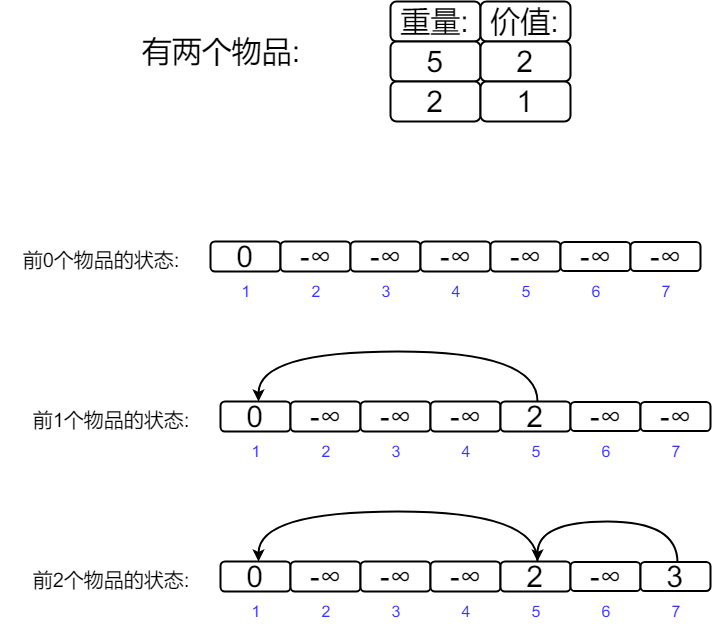
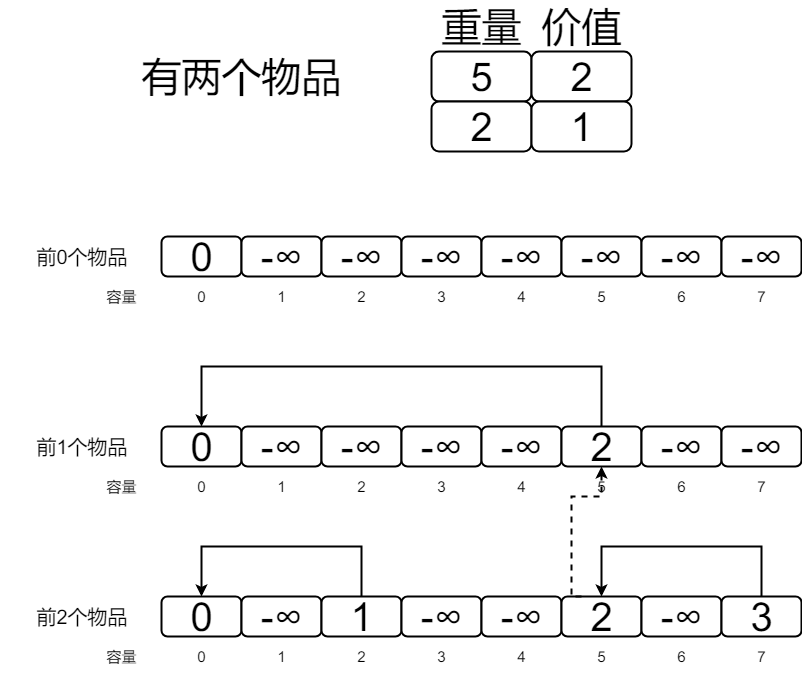
update 2018-08-01 17:37

diff --git a/动态规划/背包DP/01背包.md b/动态规划/背包DP/01背包.md
@@ -224,6 +224,146 @@ int main(){
 		}
 ```
 
+## 题目2:猫狗大战
+
+题目地址：[luogu P1489 猫狗大战](https://www.luogu.org/problemnew/show/P1489)
+
+**解析**
+
+如果一共有$$n$$个人,那么其中的一队的人数一定是$$n/2$$  
+设总血值为$$sum$$,如果知道了从$$n$$个人中选$$n/2$$人后所能形成的血值的可能值$$blood$$,那么另一队的血值为$$sum-blood$$,所以两队的血值的差值为$$\|sum-2\times blood\|$$  
+进而题目转为求:**n个人中选n/2的可能达到的血值**
+
+设$$f[i][k][j]$$表示前$$i$$人中选$$k$$个人后能不能达到血值$$j$$,显然有:
+
+```math
+f[i][k][j] =
+\left\{\begin{matrix}
+ f[i-1][k][j]& \\ 
+ or & \\
+ f[i-1][k-1][j-v[i]]& 
+\end{matrix}\right.
+```
+ - $$v[i]$$表示第$$i$$个人的血值
+ - $$f[i-1][k-1][j-v[i]]$$表示选第$$i$$个人
+ - **注意:**前$$i$$个人最多选$$i$$个人,所以$$k<=i$$
+ - **边界:**$$f[0][0][0]=1$$,表示前$$0$$个人,选$$0$$个人,可以达到血值$$0$$
+
+**我们可以画出如下的状态转移过程图:**
+
+数据:有$$3$$个人,血值分别是:$$1,2,3$$
+
+![1](./猫狗1.png)
+
+**三维写法的代码**
+```c
+
+#include <cstdio>
+#include <cstring>
+#include <cmath>
+using namespace std;
+
+
+int f[201][101][4010]  = {0};
+int n;
+int a[201];
+int sum = 0;
+
+void swap(int &a,int &b){
+    int t= a;
+    a = b;
+    b =t;
+}
+
+
+int main(){
+    scanf("%d",&n);
+    int i,j,k;
+    for(i=1;i<=n;i++){
+        scanf("%d",&a[i]);
+        sum += a[i];
+    }
+
+
+    f[0][0][0] = 1;
+    for(i=1;i<=n;i++) //枚举前i个人
+        for(k=1;k<=i && k <= n/2;k++ )
+            for(j=0;j<=sum;j++)
+                if( f[i-1][k][j] == 1 || f[i-1][k-1][j-a[i]] == 1)
+                    f[i][k][j] = 1;
+
+    int ans = 999999999;
+    int t1,t2;
+    for(i=0;i<=sum;i++)
+        if( f[n][n/2][i] == 1){
+            if( ans > abs( sum-2*i)){
+                ans = abs( sum-2*i);
+                t1 = i;
+                t2 =sum-i;
+            }
+        }
+    if( t1 > t2)
+        swap(t1,t2);
+    printf("%d %d\n",t1,t2);
+    return 0;
+}
+```
+
+**注意**:根据题意,你应该开的数组大小为$$f[201][101][8001]$$,占用的内存为$$201*101*8001*4/1024/1024=609mb$$,会超内存,这个时间我们应该把三维压成二维的
+
+我们设$$f[k][j]$$,省掉$$i$$,根据上面的三给的转移,你会发现第$$k$$行的数据,一定需要第$$k-1$$行的数据.**所以我们应该先从大到小枚举$$k$$,然后枚举$$j$$,一行一行的更新**
+
+
+**二维写法的代码**
+
+```c
+#include <cstdio>
+#include <cstring>
+#include <cmath>
+using namespace std;
+
+
+int f[201][8001] = {0};
+int sum=0,a[201]; //存血值
+int n;
+
+void dp(){
+}
+
+int main(){
+    scanf("%d",&n);
+    int i,j,k,half=n>>1;
+    for (i=1;i<=n;i++){
+        scanf("%d",&a[i]);
+        sum += a[i];
+    }
+
+    //dp
+    f[0][0] = 1; //边界
+    for(i=1;i<=n;i++) //枚举前i个人
+        for(k=half;k>=1 ;k--)//枚举选k个人,倒过来
+            for(j=a[i];j<=sum;j++){
+                if(f[k][j] == 0 && f[k-1][j-a[i]] == 1)
+                    f[k][j] = 1;
+            }
+
+    int ans = 0x7f7f7f7f;
+    int t1,t2;
+
+    //要从0开始,因为有可能一队里有0个人
+    for(i=0;i<=sum/2;i++) //i<sum/2 i是较小的那队血值
+        if( f[half][i]){
+            if( abs( sum-2*i) < ans ){
+                ans =  abs ( sum-2*i);
+                t1 = i;
+                t2 = sum -i;
+            }
+        }
+    printf("%d %d\n",t1,t2);
+    return 0;
+}
+```
+
 ## 总结
 
 

diff --git a/网络流/index.md b/网络流/index.md
@@ -4,7 +4,7 @@
 
 如下图,可以想像成一个输水网络,S是起点,T是终点.每一条边上有两个值(x,y),x表示这条边现在的流量,y表示这条边的最大流量.T结点现在接收的流量为4,问:T结点能接收的最大流量为多少?
 
-![1](1.png)
+![1](./1.png)
 
 最大为6!
 
@@ -52,9 +52,9 @@ $$
 
 定义一个网络的流量(记为|f|)
 
-$$
+```math
 \left|f \right|=\sum_{v\epsilon V}f(s,v)
-$$
+```
 
 最大流问题，就是求在满足网络流性质的情况下，|f|的最大值。
 
@@ -67,12 +67,12 @@ $$
  - Gf残量网络,Ef表示残量网络的边集.
 
 
-![2](2.png)
+![2](./2.png)
 
 
 ### 增广路(可改进路)
 
-![3](3.png)
+![3](./3.png)
 
 
 ## 练习题目
